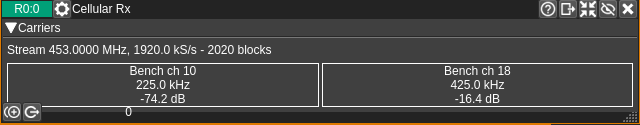
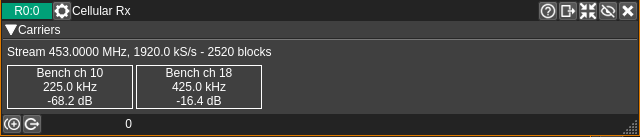
Cellular Rx/Tx: the carrier boxes flow into rows and the window fits them
The boxes were in a grid of four columns inside a minimum width of 360 px, and
the window could be made narrower than that: the boxes were cut off. They are
now of one width in a FlowLayout, as in the feature, and the window takes the
height of their rows when its width changes or the carriers change (SDRangel
fits a channel window to its contents only when a section rolls up or down).
The window was also a little short before: its height was taken while the new
boxes were still hidden (shown only later by the layout), so the bottom bar
covered their last line.

diff --git a/plugins/channeltx/cellulartx/cellulartxgui.cpp b/plugins/channeltx/cellulartx/cellulartxgui.cpp
@@ -17,13 +17,13 @@
 
 #include <algorithm>
 
-#include <QGridLayout>
 #include <QLabel>
 #include <QVBoxLayout>
 
 #include "device/deviceuiset.h"
 #include "gui/basicchannelsettingsdialog.h"
 #include "gui/dialogpositioner.h"
+#include "gui/flowlayout.h"
 #include "gui/rollupcontents.h"
 #include "maincore.h"
 #include "plugin/pluginapi.h"
@@ -36,16 +36,16 @@ namespace
 
 // carrier ids are network * 10000 + channel number
 const int kIdStride = 10000;
-const int kColumns = 4;
 const double kAudioRate = 48000.0;
+// the widest line of numbers a box has: its width
+const char * const kWidest = "9999 ms, 99999 empty";
 
-// the name of the network takes the room the box has, at least as much as the lines of numbers
+// the name of the network takes the room the line of the channel leaves
 void setBoxText(QLabel *box, const QString& name, int channel, const QString& line2, const QString& line3)
 {
     const QFontMetrics fm = box->fontMetrics();
     const QString ch = QString(" ch %1").arg(channel);
-    const int lines = std::max({fm.horizontalAdvance(line2), fm.horizontalAdvance(line3), fm.horizontalAdvance("net 99" + ch)}) + 8;
-    const int room = std::max(lines, box->contentsRect().width() - 8) - fm.horizontalAdvance(ch);
+    const int room = box->contentsRect().width() - 8 - fm.horizontalAdvance(ch);
     box->setText(fm.elidedText(name, Qt::ElideRight, room) + ch + "\n" + line2 + "\n" + line3);
 }
 
@@ -83,11 +83,9 @@ CellularTxGUI::CellularTxGUI(PluginAPI* pluginAPI, DeviceUISet *deviceUISet, Bas
     m_span->setWordWrap(true);
     layout->addWidget(m_span);
     QWidget *boxes = new QWidget(carriers);
-    m_boxLayout = new QGridLayout(boxes);
-    m_boxLayout->setContentsMargins(0, 0, 0, 0);
-    m_boxLayout->setSpacing(3);
+    // the boxes flow into as many rows as the width of the window needs
+    m_boxLayout = new FlowLayout(boxes, 0, 3, 3);
     layout->addWidget(boxes);
-    carriers->setMinimumWidth(360);
     carriers->setMinimumHeight(60);
 
     setSizePolicy(rollupContents->sizePolicy());
@@ -193,12 +191,35 @@ void CellularTxGUI::rebuildBoxes(const std::vector<int>& ids)
     {
         QLabel *box = new QLabel(m_boxLayout->parentWidget());
         box->setFrameShape(QFrame::Box);
-        box->setMinimumWidth(80);        box->setAlignment(Qt::AlignCenter);
-        m_boxLayout->addWidget(box, static_cast<int>(i) / kColumns, static_cast<int>(i) % kColumns);
+        box->setFixedWidth(box->fontMetrics().horizontalAdvance(kWidest) + 12);
+        box->setAlignment(Qt::AlignCenter);
+        m_boxLayout->addWidget(box);
+        box->show();        // now, not queued as the layout does: fitHeight() needs its size
         m_boxes.push_back(box);
     }
     m_boxIds = ids;
+}
+
+// the boxes flow into as many rows as the width needs: the window takes the height of the rows
+// (SDRangel fits a channel window to its contents only when a section rolls up or down)
+void CellularTxGUI::fitHeight()
+{
+    m_boxLayout->parentWidget()->updateGeometry();      // its height for the width is cached
     getRollupContents()->arrangeRollups();
+    sizeToContents();
+    if (isMaximized()) {
+        return;
+    }
+    const int h = std::max(minimumHeight(), std::min(height(), maximumHeight()));
+    if (h != height()) {
+        resize(width(), h);
+    }
+}
+
+void CellularTxGUI::resizeEvent(QResizeEvent *event)
+{
+    ChannelGUI::resizeEvent(event);
+    fitHeight();
 }
 
 void CellularTxGUI::tick()
@@ -229,7 +250,8 @@ void CellularTxGUI::tick()
     for (const modemcellular::CarrierTuning& t : status.carriers) {
         ids.push_back(t.id);
     }
-    if (ids != m_boxIds) {
+    const bool rebuilt = ids != m_boxIds;
+    if (rebuilt) {
         rebuildBoxes(ids);
     }
     const std::map<int, QString> names = m_cellularTx->networkNames();
@@ -245,5 +267,8 @@ void CellularTxGUI::tick()
         setBoxText(box, name, t.id % kIdStride,
             QString("%1 kHz").arg(t.offset / 1e3, 0, 'f', 1),
             QString("%1 ms, %2 empty").arg(status.fill[i] / kAudioRate * 1e3, 0, 'f', 0).arg(status.underruns[i]));
+    }
+    if (rebuilt) {
+        fitHeight();        // the boxes have their text now, and their height
     }
 }

diff --git a/plugins/channelrx/cellularrx/cellularrxgui.cpp b/plugins/channelrx/cellularrx/cellularrxgui.cpp
@@ -17,13 +17,13 @@
 
 #include <algorithm>
 
-#include <QGridLayout>
 #include <QLabel>
 #include <QVBoxLayout>
 
 #include "device/deviceuiset.h"
 #include "gui/basicchannelsettingsdialog.h"
 #include "gui/dialogpositioner.h"
+#include "gui/flowlayout.h"
 #include "gui/rollupcontents.h"
 #include "maincore.h"
 #include "plugin/pluginapi.h"
@@ -36,15 +36,15 @@ namespace
 
 // carrier ids are network * 10000 + channel number
 const int kIdStride = 10000;
-const int kColumns = 4;
+// the widest line of numbers a box has: its width
+const char * const kWidest = "-1999.9 kHz, ch 9999";
 
-// the name of the network takes the room the box has, at least as much as the lines of numbers
+// the name of the network takes the room the line of the channel leaves
 void setBoxText(QLabel *box, const QString& name, int channel, const QString& line2, const QString& line3)
 {
     const QFontMetrics fm = box->fontMetrics();
     const QString ch = QString(" ch %1").arg(channel);
-    const int lines = std::max({fm.horizontalAdvance(line2), fm.horizontalAdvance(line3), fm.horizontalAdvance("net 99" + ch)}) + 8;
-    const int room = std::max(lines, box->contentsRect().width() - 8) - fm.horizontalAdvance(ch);
+    const int room = box->contentsRect().width() - 8 - fm.horizontalAdvance(ch);
     box->setText(fm.elidedText(name, Qt::ElideRight, room) + ch + "\n" + line2 + "\n" + line3);
 }
 
@@ -82,11 +82,9 @@ CellularRxGUI::CellularRxGUI(PluginAPI* pluginAPI, DeviceUISet *deviceUISet, Bas
     m_span->setWordWrap(true);
     layout->addWidget(m_span);
     QWidget *boxes = new QWidget(carriers);
-    m_boxLayout = new QGridLayout(boxes);
-    m_boxLayout->setContentsMargins(0, 0, 0, 0);
-    m_boxLayout->setSpacing(3);
+    // the boxes flow into as many rows as the width of the window needs
+    m_boxLayout = new FlowLayout(boxes, 0, 3, 3);
     layout->addWidget(boxes);
-    carriers->setMinimumWidth(360);
     carriers->setMinimumHeight(60);
 
     setSizePolicy(rollupContents->sizePolicy());
@@ -192,12 +190,35 @@ void CellularRxGUI::rebuildBoxes(const std::vector<int>& ids)
     {
         QLabel *box = new QLabel(m_boxLayout->parentWidget());
         box->setFrameShape(QFrame::Box);
-        box->setMinimumWidth(80);        box->setAlignment(Qt::AlignCenter);
-        m_boxLayout->addWidget(box, static_cast<int>(i) / kColumns, static_cast<int>(i) % kColumns);
+        box->setFixedWidth(box->fontMetrics().horizontalAdvance(kWidest) + 12);
+        box->setAlignment(Qt::AlignCenter);
+        m_boxLayout->addWidget(box);
+        box->show();        // now, not queued as the layout does: fitHeight() needs its size
         m_boxes.push_back(box);
     }
     m_boxIds = ids;
+}
+
+// the boxes flow into as many rows as the width needs: the window takes the height of the rows
+// (SDRangel fits a channel window to its contents only when a section rolls up or down)
+void CellularRxGUI::fitHeight()
+{
+    m_boxLayout->parentWidget()->updateGeometry();      // its height for the width is cached
     getRollupContents()->arrangeRollups();
+    sizeToContents();
+    if (isMaximized()) {
+        return;
+    }
+    const int h = std::max(minimumHeight(), std::min(height(), maximumHeight()));
+    if (h != height()) {
+        resize(width(), h);
+    }
+}
+
+void CellularRxGUI::resizeEvent(QResizeEvent *event)
+{
+    ChannelGUI::resizeEvent(event);
+    fitHeight();
 }
 
 void CellularRxGUI::tick()
@@ -225,7 +246,8 @@ void CellularRxGUI::tick()
     for (const modemcellular::CarrierTuning& t : status.carriers) {
         ids.push_back(t.id);
     }
-    if (ids != m_boxIds) {
+    const bool rebuilt = ids != m_boxIds;
+    if (rebuilt) {
         rebuildBoxes(ids);
     }
     const std::map<int, QString> names = m_cellularRx->networkNames();
@@ -242,5 +264,8 @@ void CellularRxGUI::tick()
             QString("%1 kHz").arg(t.offset / 1e3, 0, 'f', 1),
             QString("%1 dB").arg(level, 0, 'f', 1));
         box->setToolTip(QString("Network %1 (id %2), channel %3").arg(name).arg(network).arg(t.id % kIdStride));
+    }
+    if (rebuilt) {
+        fitHeight();        // the boxes have their text now, and their height
     }
 }

diff --git a/plugins/channeltx/cellulartx/cellulartxgui.h b/plugins/channeltx/cellulartx/cellulartxgui.h
@@ -31,7 +31,7 @@ class PluginAPI;
 class DeviceUISet;
 class BasebandSampleSource;
 class CellularTx;
-class QGridLayout;
+class FlowLayout;
 class QLabel;
 
 // The span of the stream and one small box per carrier: which network and channel, where it is
@@ -66,6 +66,8 @@ private:
 
     void displaySettings();
     void rebuildBoxes(const std::vector<int>& ids);
+    void fitHeight();
+    void resizeEvent(QResizeEvent *event) override;
 
     PluginAPI* m_pluginAPI;
     DeviceUISet* m_deviceUISet;
@@ -75,7 +77,7 @@ private:
     CellularTx* m_cellularTx;
     MessageQueue m_inputMessageQueue;
     QLabel *m_span;
-    QGridLayout *m_boxLayout;
+    FlowLayout *m_boxLayout;
     std::vector<QLabel*> m_boxes;
     std::vector<int> m_boxIds;
     unsigned int m_tickCount;

diff --git a/plugins/channelrx/cellularrx/cellularrxgui.h b/plugins/channelrx/cellularrx/cellularrxgui.h
@@ -31,7 +31,7 @@ class PluginAPI;
 class DeviceUISet;
 class BasebandSampleSink;
 class CellularRx;
-class QGridLayout;
+class FlowLayout;
 class QLabel;
 
 // The span of the stream and one small box per carrier: which network and channel, where it is
@@ -66,6 +66,8 @@ private:
 
     void displaySettings();
     void rebuildBoxes(const std::vector<int>& ids);
+    void fitHeight();
+    void resizeEvent(QResizeEvent *event) override;
 
     PluginAPI* m_pluginAPI;
     DeviceUISet* m_deviceUISet;
@@ -75,7 +77,7 @@ private:
     CellularRx* m_cellularRx;
     MessageQueue m_inputMessageQueue;
     QLabel *m_span;
-    QGridLayout *m_boxLayout;
+    FlowLayout *m_boxLayout;
     std::vector<QLabel*> m_boxes;
     std::vector<int> m_boxIds;
     unsigned int m_tickCount;

diff --git a/plugins/channeltx/cellulartx/readme.md b/plugins/channeltx/cellulartx/readme.md
@@ -20,7 +20,7 @@ The center frequency and sample rate of the device, the lead of the queues in ms
 
 <h3>2: Carrier boxes</h3>
 
-One box per carrier: the name of the network (the tooltip has its id) and the channel number, the offset of the carrier from the center of the stream in kHz, the milliseconds of audio in its queue and how many times the queue ran empty. The fill should stay near the lead. A queue that runs empty over and over means that the device takes audio faster than the receiver delivers it (or the lead is too small): the carrier then has gaps and phones lose frames.
+One box per carrier: the name of the network (the tooltip has its id) and the channel number, the offset of the carrier from the center of the stream in kHz, the milliseconds of audio in its queue and how many times the queue ran empty. The fill should stay near the lead. A queue that runs empty over and over means that the device takes audio faster than the receiver delivers it (or the lead is too small): the carrier then has gaps and phones lose frames. The boxes go into more rows when the window is narrow.
 
 <h2>Notes</h2>
 

diff --git a/plugins/channelrx/cellularrx/readme.md b/plugins/channelrx/cellularrx/readme.md
@@ -18,7 +18,7 @@ The center frequency and sample rate of the device. The sample rate has to be an
 
 <h3>2: Carrier boxes</h3>
 
-One box per carrier: the name of the network (the tooltip has its id) and the channel number, the offset of the carrier from the center of the stream in kHz, and the received level in dB of full scale. A level around -100 dB is noise: no phone is transmitting.
+One box per carrier: the name of the network (the tooltip has its id) and the channel number, the offset of the carrier from the center of the stream in kHz, and the received level in dB of full scale. A level around -100 dB is noise: no phone is transmitting. The boxes go into more rows when the window is narrow.
 
 <h2>Notes</h2>
 
